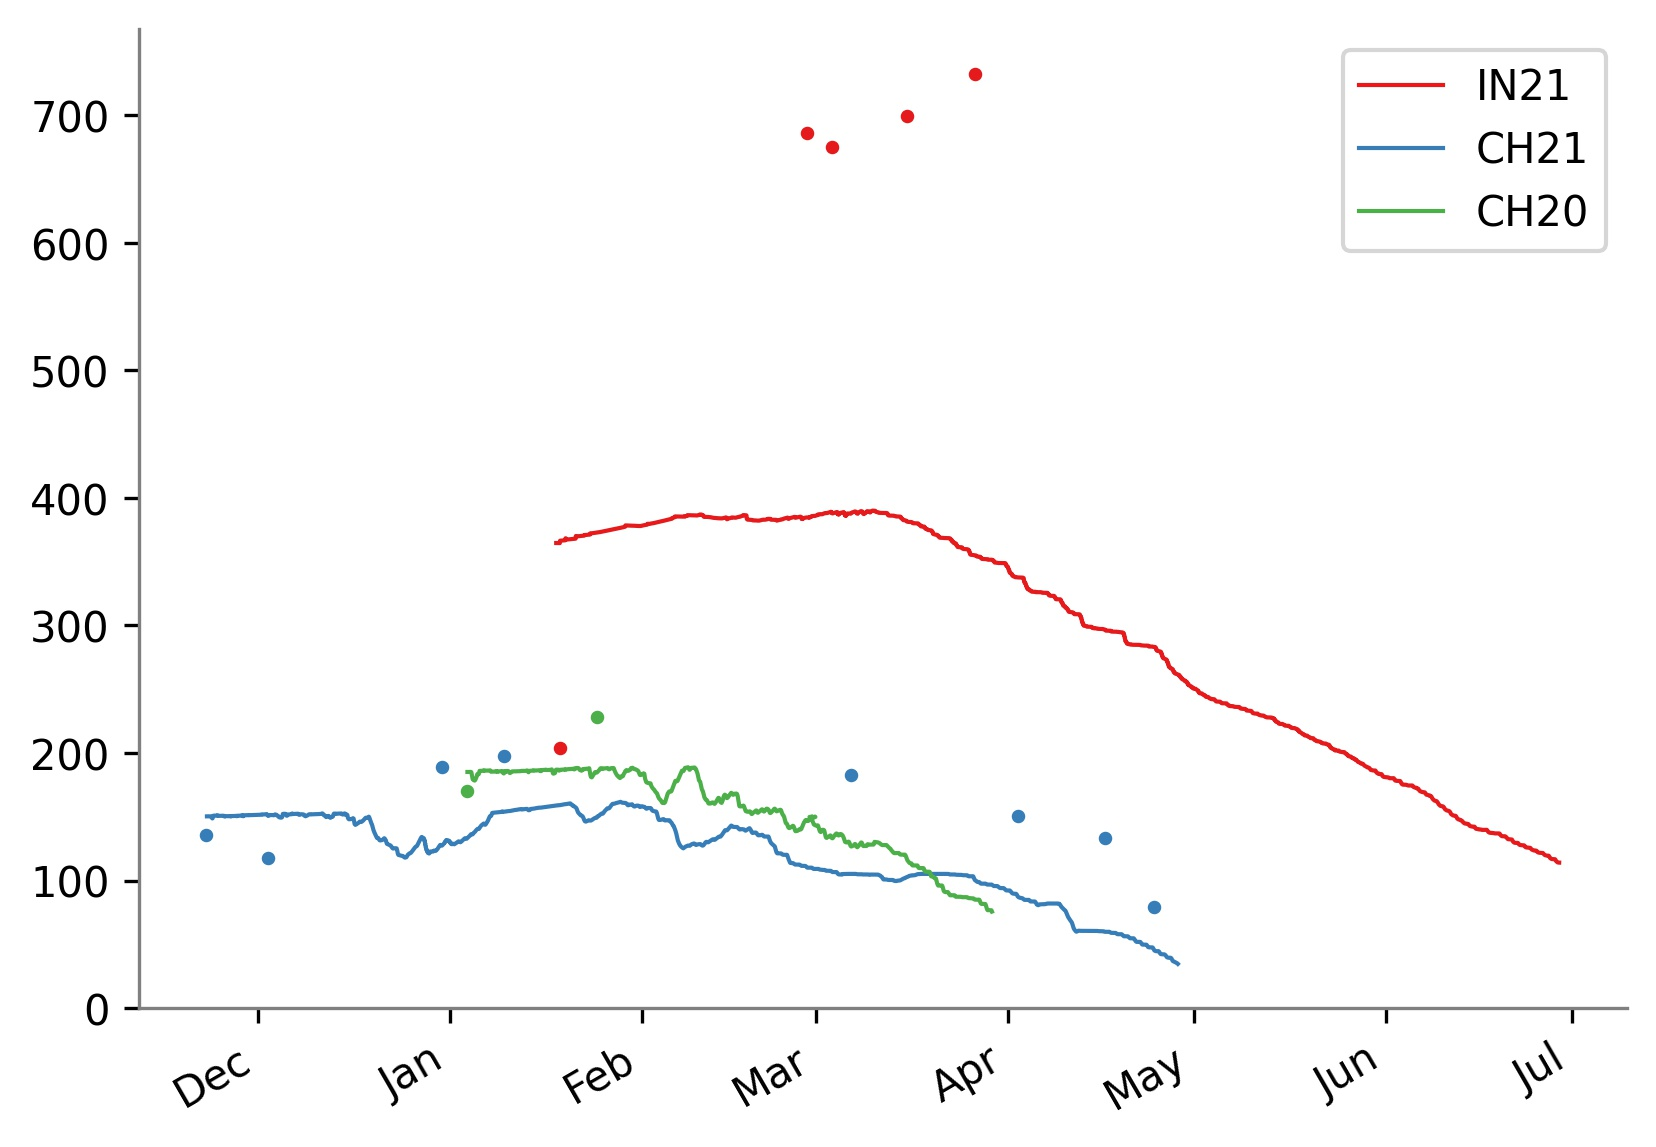
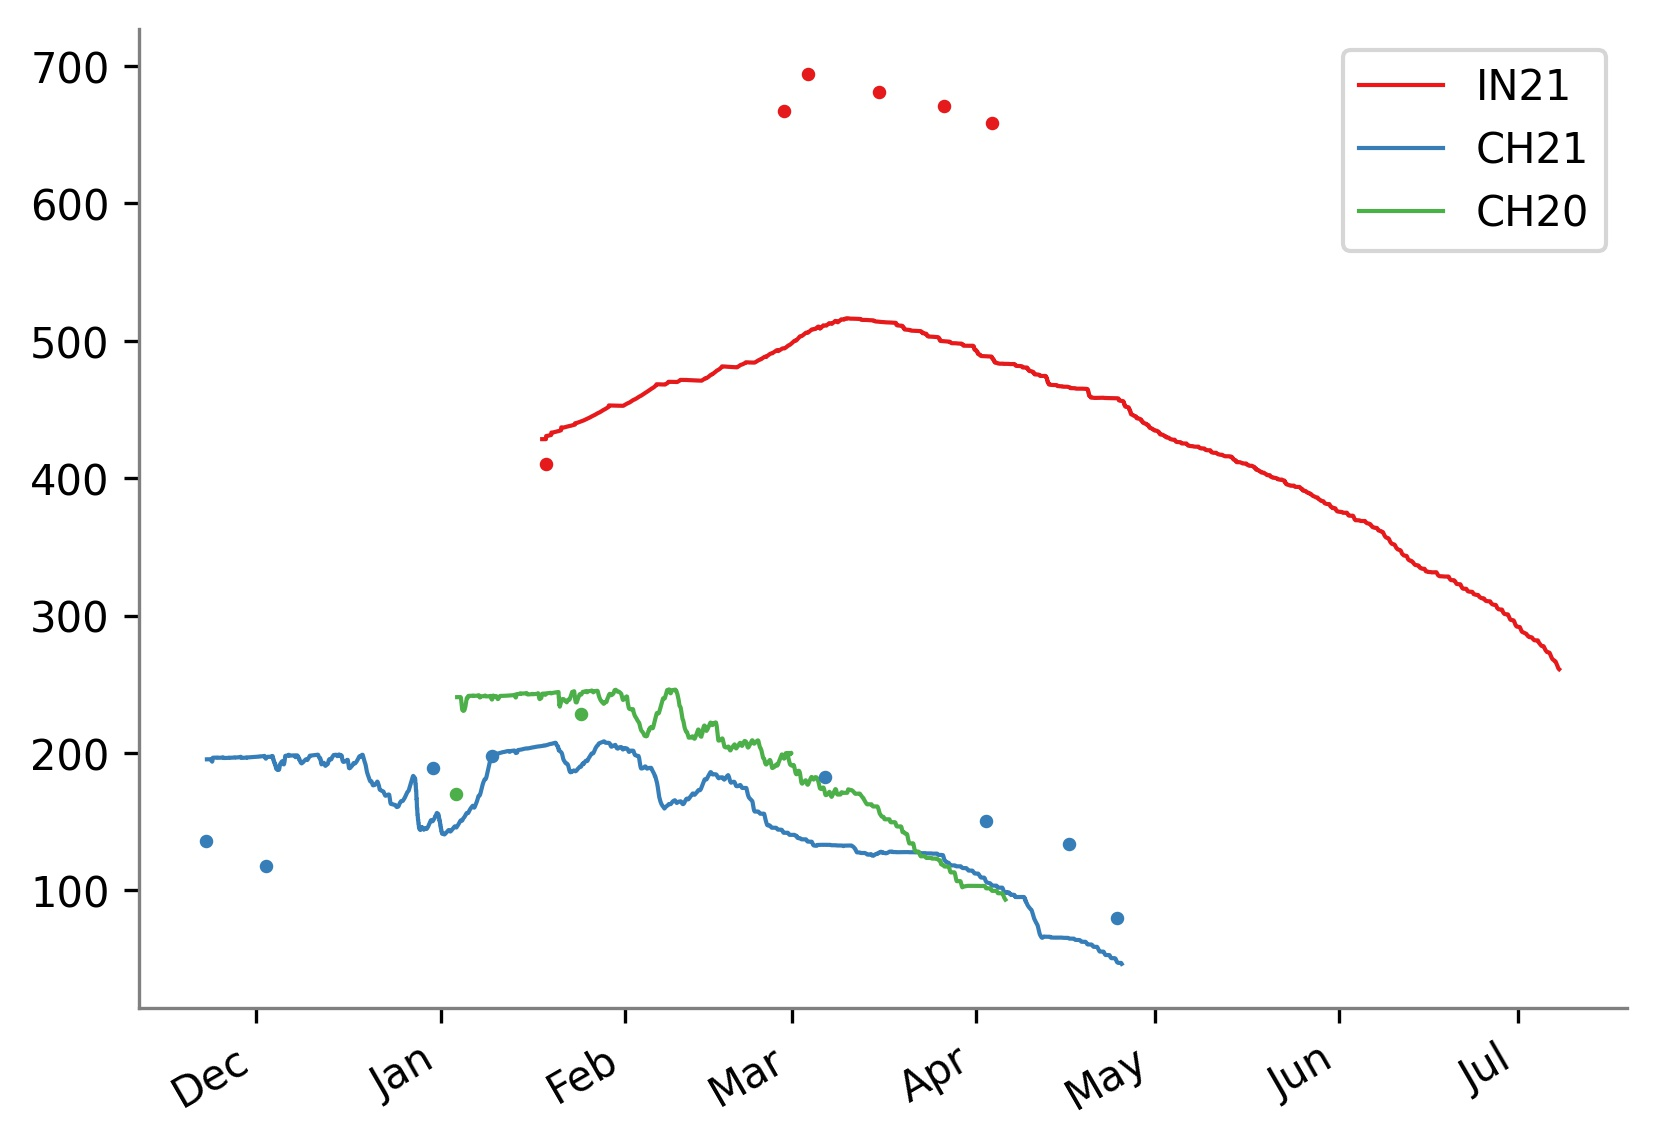
cv area

diff --git a/src/utils/validate.py b/src/utils/validate.py
@@ -48,16 +48,20 @@ def calculate(process_name,location, tasks, X, y, results, results_list, kind):
             # Fit new parameter
             clf.fit(X,y)
             # diff = clf.predict_survival()
-            y_pred = clf.predict(X)
-            # y_pred, x_pred = clf.predict_sa_v(X)
-            rmse = mean_squared_error(y_pred,y, squared=False)
-            # rmse1 = mean_squared_error(y_pred,y, squared=False)
-            # rmse2 = mean_squared_error(x_pred,x, squared=False)
-            # rmse = np.sqrt(rmse1**2+rmse2**2)
+            if kind == 'volume':
+                y_pred = clf.predict(X)
+                rmse = mean_squared_error(y_pred,y, squared=False)
+            if kind == 'area':
+                x_pred = clf.predict(X)
+                rmse = mean_squared_error(x_pred,x, squared=False)
+            else:
+                y_pred, x_pred = clf.predict_sa_v(X)
+                rmse1 = mean_squared_error(y_pred,y, squared=False)
+                rmse2 = mean_squared_error(x_pred,x, squared=False)
+                rmse = np.sqrt(rmse1**2+rmse2**2)
 
             # Compute result and mimic a long-running task
             compute = rmse
-            # compute = diff
 
             # Output which process received the value
             print('[%s] received value: %s' % (process_name, new_value))
@@ -77,8 +81,8 @@ if __name__ == "__main__":
         logger=logger,
     )
 
-    # location = "gangles21"
-    location = "guttannen21"
+    location = "gangles21"
+    # location = "guttannen21"
     # location = "schwarzsee19"
 
     icestupa = Icestupa(location)
@@ -90,7 +94,8 @@ if __name__ == "__main__":
 
     # Loading measurements
     obs = list()
-    kind = 'volume'
+    # kind = 'volume'
+    kind = 'area'
     # kind = 'temp'
 
     if kind == 'volume':

diff --git a/src/utils/cv.py b/src/utils/cv.py
@@ -91,7 +91,7 @@ class CV_Icestupa(BaseEstimator,Icestupa):
         self.diff = self.total_hours
            
     @Timer(text="Simulation executed in {:.2f} seconds")
-    def fit(self, X,y,groups=None):
+    def fit(self, X,y):
 
         if self.A_DECAY !=17.5 or self.A_I != 0.25 or self.A_S != 0.85 or self.T_PPT!= 1: 
             """Albedo Decay parameters initialized"""
@@ -155,6 +155,18 @@ class CV_Icestupa(BaseEstimator,Icestupa):
             ctr +=1
 
         return y_pred, x_pred
+    def predict_sa(self, X):
+        x_pred = []
+        ctr = 0
+        for x in X:
+            if self.kind == 'volume':
+                if (self.df[self.df.When == x[1]].shape[0]): 
+                    x_pred.append(self.df.loc[self.df.When == x[1], "SA"].values[0])
+                else:
+                    x_pred.append(math.pi * self.r_F**2)
+            ctr +=1
+
+        return x_pred
 
 
 if __name__ == "__main__":
